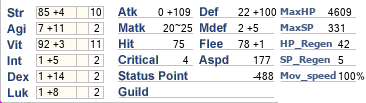
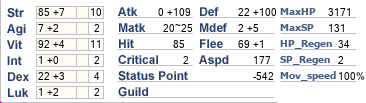
Implemented equipping gear restrictions

diff --git a/pyflask/app/static/css/frames/calculator_frame.css b/pyflask/app/static/css/frames/calculator_frame.css
@@ -40,6 +40,8 @@
     border-radius:7px;
 }
 
+
+
 .status-title{
     opacity: 1;
     margin-down: 5px;
@@ -215,6 +217,7 @@ class_name{
 .attribute-item{
     width: 100px;
 }
+
 
 
 

diff --git a/ragnarok/model/equip_model.py b/ragnarok/model/equip_model.py
@@ -1,3 +1,6 @@
+from ragnarok.main.exporter import db_package, equip_db, job70
+
+
 class PlayerGear:
     def __init__(self, package: dict, job: str, base_level: int):
         self.armor = '(No Armor)'
@@ -20,6 +23,10 @@ class PlayerGear:
         self.full_db = package[7]
         self.job = job
         self.base_level = base_level
+        if job in job70:
+            self.is_transclass = True
+        else:
+            self.is_transclass = False
 
     def equip(self, gear: dict):
         gear_id = gear['Id']
@@ -102,6 +109,8 @@ class PlayerGear:
     def refine_single_gear(self, chosen_gear: str, amount: int):
         if amount > 10 or amount < 0:
             raise ValueError('Invalid refine value +{} for {}.'.format(amount, chosen_gear))
+        if amount == 0:
+            pass
         if chosen_gear == 'armor':
             self.armor['Refining'] = amount
         if chosen_gear == 'shield':
@@ -113,58 +122,98 @@ class PlayerGear:
         if chosen_gear == 'weapon':
             self.weapon['Refining'] = amount
 
+    @staticmethod
+    def adapt_class(input_class: str) -> str:
+        class_table = {
+            "lord_knight": "knight", "high_priest": "priest", "high_wizard": "wizard",
+            "whitesmith": "blacksmith", "sniper": "hunter", "assassin_cross": "assassin",
+            "paladin": "crusader", "stalker": "rogue", "professor": "sage",
+            "creator": "alchemist", "champion": "monk", "clown": "bard", "gypsy": "dancer",
+        }
+        if input_class in class_table:
+            return class_table[input_class.lower()]
+        else:
+            raise ValueError('[{}] is not a transclass, so it cant be adapted'.format(input_class))
+
     def is_equipable(self, chosen_id: int):
         chosen_gear = self.full_db[chosen_id]
         job_restriction = chosen_gear['Jobs']
         level_restriction = chosen_gear['EquipLevelMin']
         transclass_restriction = chosen_gear['Classes']
+        adapted_job = self.job
+        if self.is_transclass:
+            adapted_job = self.adapt_class(self.job)
 
         result = {'job': True, 'level': True, 'trans': True}
 
-        if self.job in job_restriction:
-            if job_restriction[self.job]:
-                result['job'] = True
-            else:
+        if 'All' not in job_restriction:
+            if adapted_job not in job_restriction:
                 result['job'] = False
+        else:
+            if adapted_job in job_restriction:
+                result['job'] = False
+
         if self.base_level >= level_restriction:
             result['level'] = True
         else:
             result['level'] = False
 
-        for i in result.values():
-            if not i:
+        if not self.is_transclass and transclass_restriction == {'Upper': True}:
+            result['trans'] = False
+
+        for q in result.values():
+            if not q:
                 return False, result
         return True, result
 
 
-from ragnarok.main.exporter import db_package, equip_db
+pe = PlayerGear(db_package, 'champion', 94)
 
-pe = PlayerGear(db_package, 'monk', 44)
-pe.equip(equip_db[2504])
-pe.refine_single_gear('robe', 5)
+gear_queue = {'robe': (2504, 5),
+              'shoes': (2407, 7),
+              'shield': (2102, 7),
+              'armor': (2322, 7),
+              'acessory1': (2626, 0),
+              'acessory2': (2607, 0),
+              }
 
-pe.equip(equip_db[2407])
-pe.refine_single_gear('shoes', 7)
+hat_queue = [5353, 2269]
 
-pe.equip(equip_db[2102])
-pe.refine_single_gear('shield', 7)
+for i, j in gear_queue.items():
+    pe.equip(equip_db[j[0]])
+    pe.refine_single_gear(i, j[1])
 
-pe.equip(equip_db[2322])
-pe.refine_single_gear('armor', 7)
+for i in hat_queue:
+    pe.equip(equip_db[i])
 
-pe.equip(equip_db[5353])  # sun god
-pe.equip(equip_db[2269])  # romantic flower
-pe.equip(equip_db[2626])  # rosary
-pe.equip(equip_db[2607])  # clip
-
-pe.equip(equip_db[1471])
+# pe.equip(equip_db[2504])
+# pe.refine_single_gear('robe', 5)
+#
+# pe.equip(equip_db[2407])
+# pe.refine_single_gear('shoes', 7)
+#
+# pe.equip(equip_db[2102])
+# pe.refine_single_gear('shield', 7)
+#
+# pe.equip(equip_db[2322])
+# pe.refine_single_gear('armor', 7)
+#
+# pe.equip(equip_db[5353])  # sun god
+# pe.equip(equip_db[2269])  # romantic flower
+# pe.equip(equip_db[2626])  # rosary
+# pe.equip(equip_db[2607])  # clip
+#
+# pe.equip(equip_db[1471])
 
 print("")
 pe.print_gear()
 print("")
-print("")
 
-for i, j in equip_db[1471].items():
-    print(i, j)
-
-print(pe.is_equipable(1471))
+# print("")
+# print("")
+#
+# # 1471
+# for i, j in equip_db[1185].items():
+#     print(i, j)
+#
+# print(pe.is_equipable(1185))

diff --git a/ragnarok/model/build_model.py b/ragnarok/model/build_model.py
@@ -43,7 +43,6 @@ class PlayerBuild:
 
         # classes
 
-
         # incremento dos atributos de acordo com o nível atual de classe
         self.str_bonus = self.evaluate_stat_bonus(self.job_level, self.job_bonuses_list[current_job]['STR'])
         self.agi_bonus = self.evaluate_stat_bonus(self.job_level, self.job_bonuses_list[current_job]['AGI'])
@@ -253,4 +252,3 @@ class BuildNuances:
     matk_max: int
     mdef_hard: int
     mdef_soft: int
-
